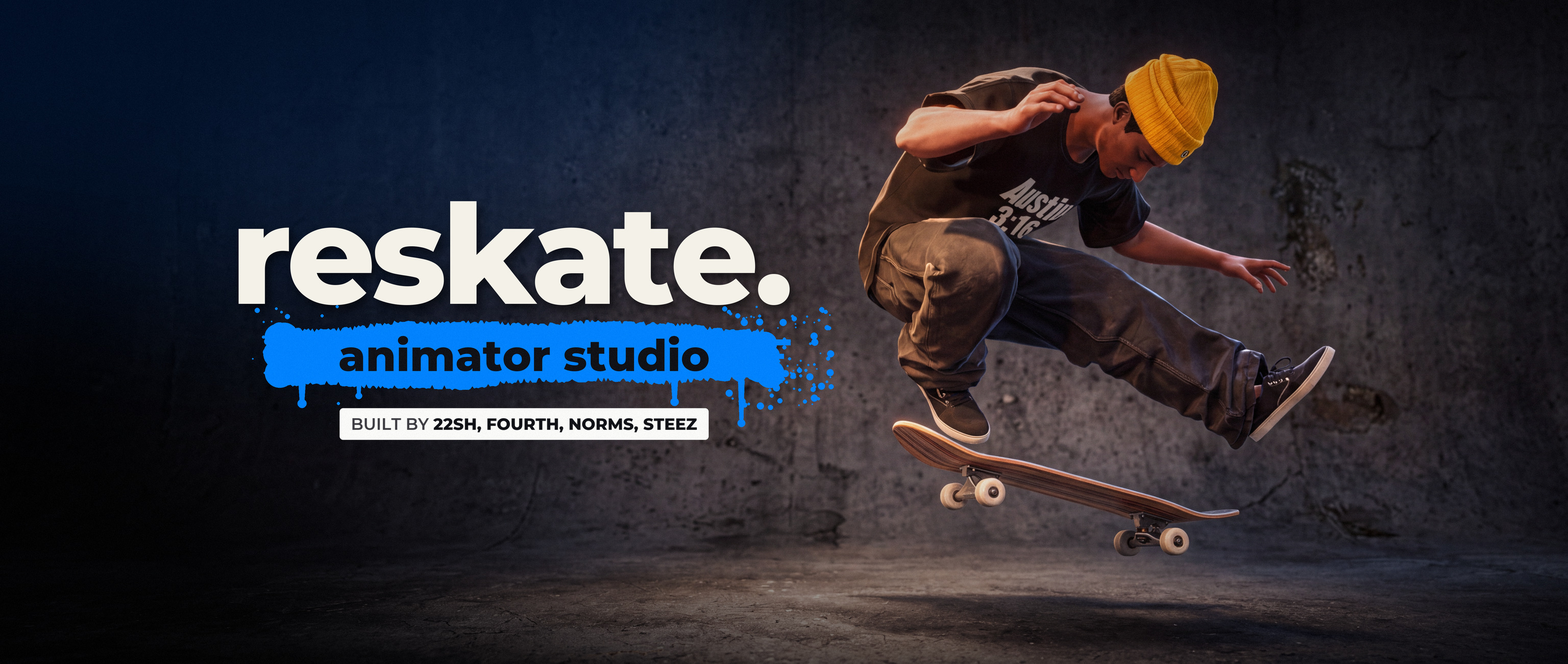
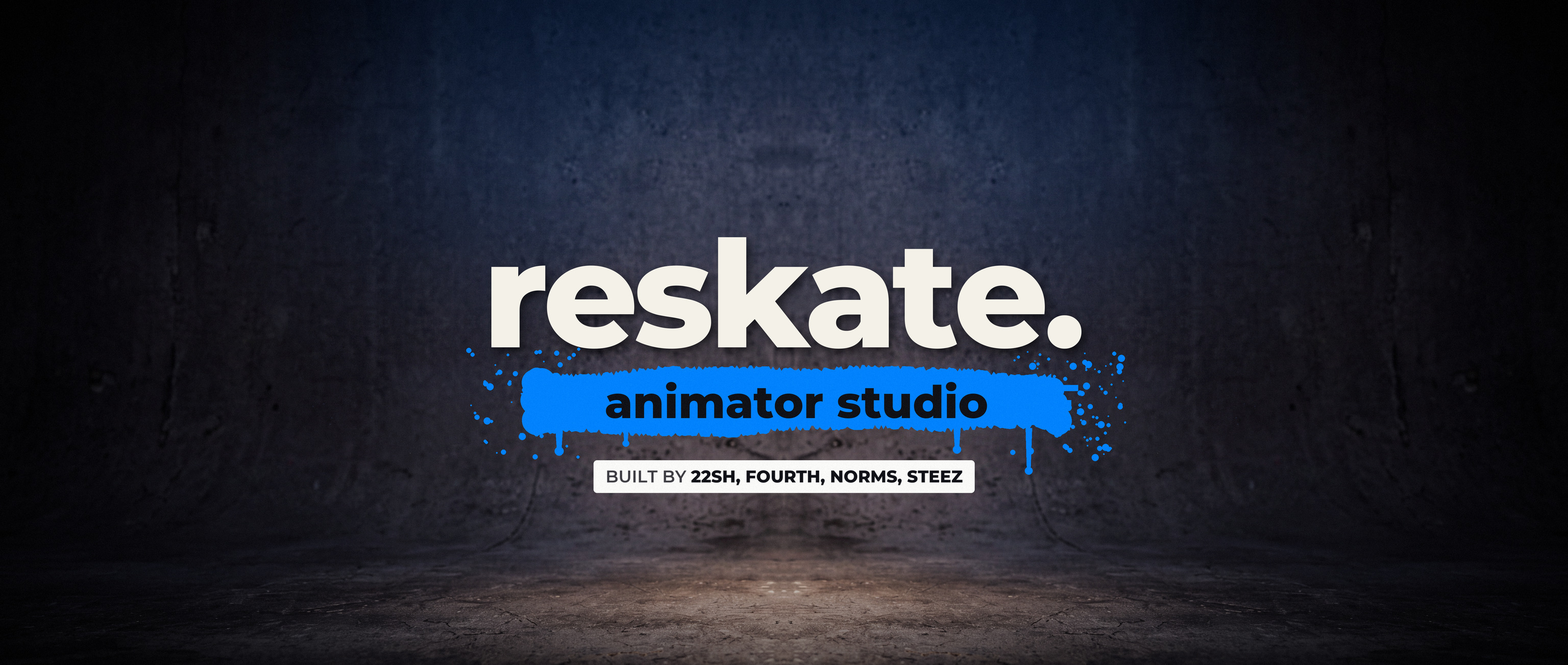
Loading picture: concrete only, no skater
The loading plate's clean left half (wall and floor) with its mirror, lit from the middle, and the reskate. lockup
centred: the wordmark, the blue tape animator studio and BUILT BY 22SH, FOURTH, NORMS, STEEZ.
contrib/animator-studio/make_loading_concrete.py makes it (and Animator Studio backdrop 5.png at full size).

diff --git a/contrib/animator-studio/make_loading_concrete.py b/contrib/animator-studio/make_loading_concrete.py
@@ -1,0 +1,162 @@
+"""The Animator Studio's loading picture, concrete only: no skater. The loading plate's clean left half (the wall and the
+floor, warm towards the middle) with its mirror beside it, lit from the middle, and the reskate. lockup centred on it:
+the wordmark, the blue tape "animator studio" and BUILT BY. The plate is made by make_loading_plate.py.
+
+    python make_loading_concrete.py
+
+Writes "Animator Studio backdrop 5.png" (full size) and assets/animator_studio/loading.jpg (what ReSkate.dll is built with).
+"""
+import math
+import random
+from pathlib import Path
+
+import numpy as np
+from PIL import Image, ImageDraw, ImageFilter, ImageFont
+
+HERE = Path(__file__).resolve().parent
+PLATE = r"C:\Users\Fourt\AppData\Local\Temp\claude\C--Users-Fourt\2ab0674e-9ffe-4afb-a488-7a96406c2044\scratchpad\backdrop\plate.png"
+FONTS = HERE.parents[1] / "External" / "fonts"
+OUT_FULL = r"C:\Users\Fourt\Documents\Reskate\Animator Studio backdrop 5.png"
+OUT_ASSET = HERE.parents[1] / "assets" / "animator_studio" / "loading.jpg"
+
+rnd = random.Random(7)
+BLUE = (1, 131, 255)
+PAPER = (244, 241, 233)
+INK = (16, 18, 24)
+CREDITS = "22SH, FOURTH, NORMS, STEEZ"
+
+
+def font(name, size):
+    return ImageFont.truetype(str(FONTS / name), size)
+
+
+plate = Image.open(PLATE).convert("RGB")
+W, H = plate.size
+half = plate.crop((0, 0, W // 2, H))
+base = Image.new("RGB", (W, H))
+base.paste(half, (0, 0))
+base.paste(half.transpose(Image.FLIP_LEFT_RIGHT), (W // 2, 0))
+
+
+def layer():
+    return Image.new("RGBA", (W, H), (0, 0, 0, 0))
+
+
+# ---- grade: cool in the shadows, lit from the middle, deep at the edges ----------------------------------
+arr = np.asarray(base).astype(np.float32)
+luma = arr.mean(axis=2, keepdims=True) / 255.0
+arr = arr * (np.array([0.96, 0.99, 1.06], dtype=np.float32) * (1 - luma) + luma)
+yy, xx = np.mgrid[0:H, 0:W].astype(np.float32)
+d = np.sqrt(((xx - W * 0.5) / (W * 0.46)) ** 2 + ((yy - H * 0.48) / (H * 0.78)) ** 2)
+arr *= np.clip(1.16 - 0.66 * d ** 1.5, 0.16, 1.1)[..., None]
+arr *= np.clip(1.0 - 0.35 * (np.abs(yy / H - 0.47) / 0.53) ** 3, 0.6, 1.0)[..., None]
+canvas = Image.fromarray(np.clip(arr, 0, 255).astype(np.uint8)).convert("RGBA")
+# A cold light on the wall behind the words.
+leak = layer()
+ImageDraw.Draw(leak).ellipse([W * 0.5 - 2100, H * 0.18 - 900, W * 0.5 + 2100, H * 0.18 + 1100], fill=(1, 110, 255, 34))
+canvas = Image.alpha_composite(canvas, leak.filter(ImageFilter.GaussianBlur(420)))
+
+
+def spaced_width(draw, f, text, track):
+    return sum(draw.textlength(ch, font=f) for ch in text) + track * (len(text) - 1)
+
+
+# ---- the lockup, centred ------------------------------------------------------------------------------------
+probe = ImageDraw.Draw(layer())
+word = "reskate."
+size = 600
+while True:
+    wf = font("Montserrat-ExtraBold.ttf", size)
+    track = -0.035 * size
+    if spaced_width(probe, wf, word, track) <= 2500:
+        break
+    size -= 6
+word_w = spaced_width(probe, wf, word, track)
+x0, base_y = W / 2 - word_w / 2, H * 0.5 + 60
+type_layer = layer()
+tl = ImageDraw.Draw(type_layer)
+shadow = layer()
+sd = ImageDraw.Draw(shadow)
+x = x0
+for ch in word:
+    sd.text((x + 14, base_y + 18), ch, font=wf, fill=(0, 0, 0, 150), anchor="ls")
+    tl.text((x, base_y), ch, font=wf, fill=PAPER + (255,), anchor="ls")
+    x += tl.textlength(ch, font=wf) + track
+word_right = x - track
+canvas = Image.alpha_composite(canvas, shadow.filter(ImageFilter.GaussianBlur(18)))
+canvas = Image.alpha_composite(canvas, type_layer)
+
+# The blue tape: a dry brush stroke, ragged, splattered, dripping (as the old loading picture's).
+tape = layer()
+tp = ImageDraw.Draw(tape)
+t0x, t1x, t0y, t1y = x0 + 240, word_right - 140, base_y + 86, base_y + 346
+phase = [rnd.uniform(0, 6.28) for _ in range(6)]
+
+
+def wander(s, k):
+    return 14 * math.sin(s * 5.3 + phase[k]) + 8 * math.sin(s * 13.7 + phase[k + 1]) + 4 * math.sin(s * 31 + phase[k + 2])
+
+
+top, bottom = [], []
+for i in range(241):
+    s = i / 240
+    xs = t0x + (t1x - t0x) * s
+    top.append((xs, t0y + wander(s, 0) + (rnd.uniform(0, 7) if rnd.random() < 0.7 else rnd.uniform(8, 18))))
+    bottom.append((xs, t1y + wander(s, 3) - (rnd.uniform(0, 7) if rnd.random() < 0.7 else rnd.uniform(8, 20))))
+tp.polygon(top + bottom[::-1], fill=BLUE + (255,))
+for end, direction in ((t0x, -1), (t1x, 1)):
+    for _ in range(9):
+        yk = rnd.uniform(t0y + 20, t1y - 20)
+        length = rnd.uniform(20, 110) if direction > 0 else rnd.uniform(15, 70)
+        tp.line([(end - direction * 10, yk), (end + direction * length, yk + rnd.uniform(-4, 4))], fill=BLUE + (255,), width=rnd.randint(14, 34))
+    for _ in range(6):
+        yk = rnd.uniform(t0y + 20, t1y - 20)
+        r = rnd.uniform(26, 60)
+        xk = end + direction * rnd.uniform(-10, 30)
+        tp.ellipse([xk - r, yk - r, xk + r, yk + r], fill=BLUE + (255,))
+for _ in range(170):
+    near_end = rnd.random() < 0.6
+    xk = rnd.uniform(t1x - 160, t1x + 300) if near_end else rnd.uniform(t0x - 300, t0x + 160)
+    yk = rnd.uniform(t0y - 80, t1y + 100)
+    if t0y < yk < t1y and t0x < xk < t1x:
+        continue
+    r = rnd.choice([3, 4, 5, 6, 8, 10, 14])
+    tp.ellipse([xk - r, yk - r, xk + r, yk + r], fill=BLUE + (255,))
+for xd, length, width in ((t0x + 70, 70, 30), (t0x + 340, 40, 22), (t1x - 380, 64, 28), (t1x - 90, 150, 26)):
+    tp.polygon([(xd - width / 2, t1y - 20), (xd + width / 2, t1y - 20), (xd + width * 0.3, t1y + length), (xd - width * 0.3, t1y + length)],
+               fill=BLUE + (255,))
+    tp.ellipse([xd - width * 0.6, t1y + length - width * 0.5, xd + width * 0.6, t1y + length + width * 0.7], fill=BLUE + (255,))
+canvas = Image.alpha_composite(canvas, tape)
+label = layer()
+lb = ImageDraw.Draw(label)
+lf = font("Montserrat-ExtraBold.ttf", 182)
+text_w = lb.textlength("animator studio", font=lf)
+lb.text(((t0x + t1x) / 2 - text_w / 2, (t0y + t1y) / 2 + 4), "animator studio", font=lf, fill=INK + (255,), anchor="lm")
+canvas = Image.alpha_composite(canvas, label)
+
+# BUILT BY, on a strip of paper, centred under the tape.
+strip = layer()
+st = ImageDraw.Draw(strip)
+light_f, bold_f = font("Montserrat-SemiBold.ttf", 68), font("Montserrat-ExtraBold.ttf", 68)
+part1, part2 = "BUILT BY ", CREDITS
+w1, w2 = st.textlength(part1, font=light_f), st.textlength(part2, font=bold_f)
+sx0 = W / 2 - (w1 + w2) / 2 - 48
+sy0 = t1y + 110
+st.rounded_rectangle([sx0, sy0, sx0 + w1 + w2 + 96, sy0 + 132], radius=14, fill=(250, 250, 248, 255))
+st.text((sx0 + 48, sy0 + 66), part1, font=light_f, fill=(60, 60, 66, 255), anchor="lm")
+st.text((sx0 + 48 + w1, sy0 + 66), part2, font=bold_f, fill=INK + (255,), anchor="lm")
+canvas = Image.alpha_composite(canvas, strip.filter(ImageFilter.GaussianBlur(0.6)))
+
+# ---- grain over the concrete (not over the words) ---------------------------------------------------------------
+final = canvas.convert("RGB")
+noise = np.asarray(Image.effect_noise((W, H), 22)).astype(np.float32) - 128
+clean = np.asarray(type_layer.split()[3].filter(ImageFilter.MaxFilter(9))).astype(np.float32) / 255.0
+out = np.asarray(final).astype(np.float32) + (noise * 0.22 * (1 - clean))[..., None]
+final = Image.fromarray(np.clip(out, 0, 255).astype(np.uint8))
+final.save(OUT_FULL)
+final.resize((3072, round(3072 * H / W)), Image.LANCZOS).save(OUT_ASSET, quality=93, subsampling=0, optimize=True)
+preview = Path(r"C:\Users\Fourt\AppData\Local\Temp\claude\C--Users-Fourt\2ab0674e-9ffe-4afb-a488-7a96406c2044\scratchpad\thumb")
+final.resize((1584, round(1584 * H / W)), Image.LANCZOS).save(preview / "loading_concrete.jpg", quality=90)
+crop = int(H * 16 / 9)
+final.crop(((W - crop) // 2, 0, (W + crop) // 2, H)).resize((1280, 720), Image.LANCZOS).save(preview / "loading_concrete_169.jpg", quality=90)
+print("ok", OUT_FULL, OUT_ASSET)
